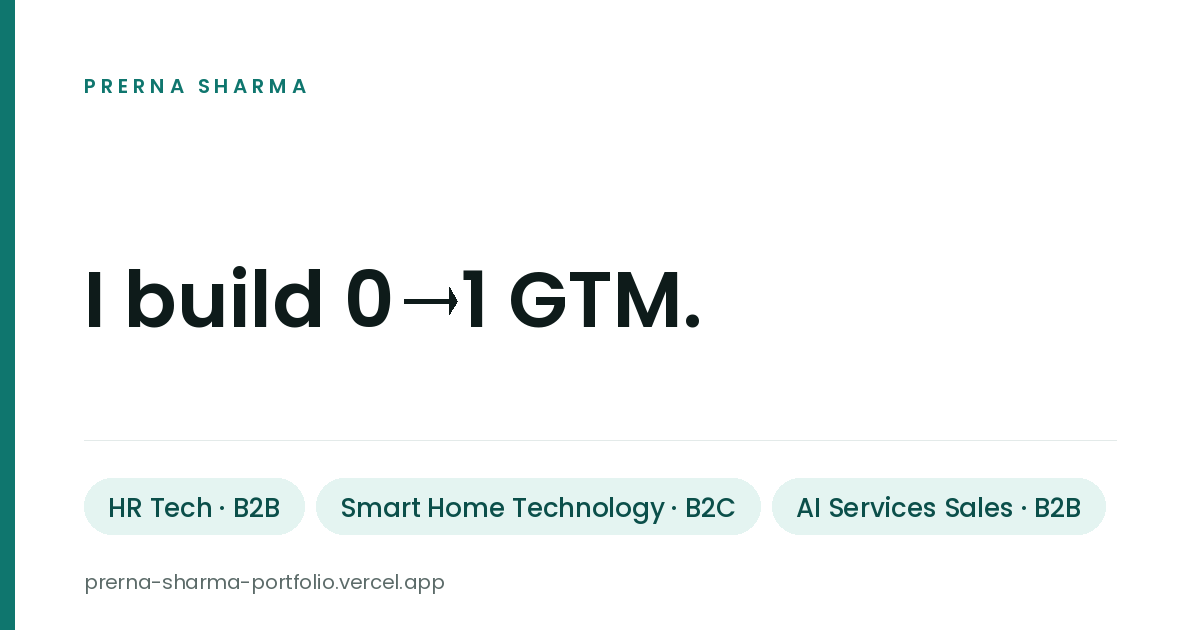
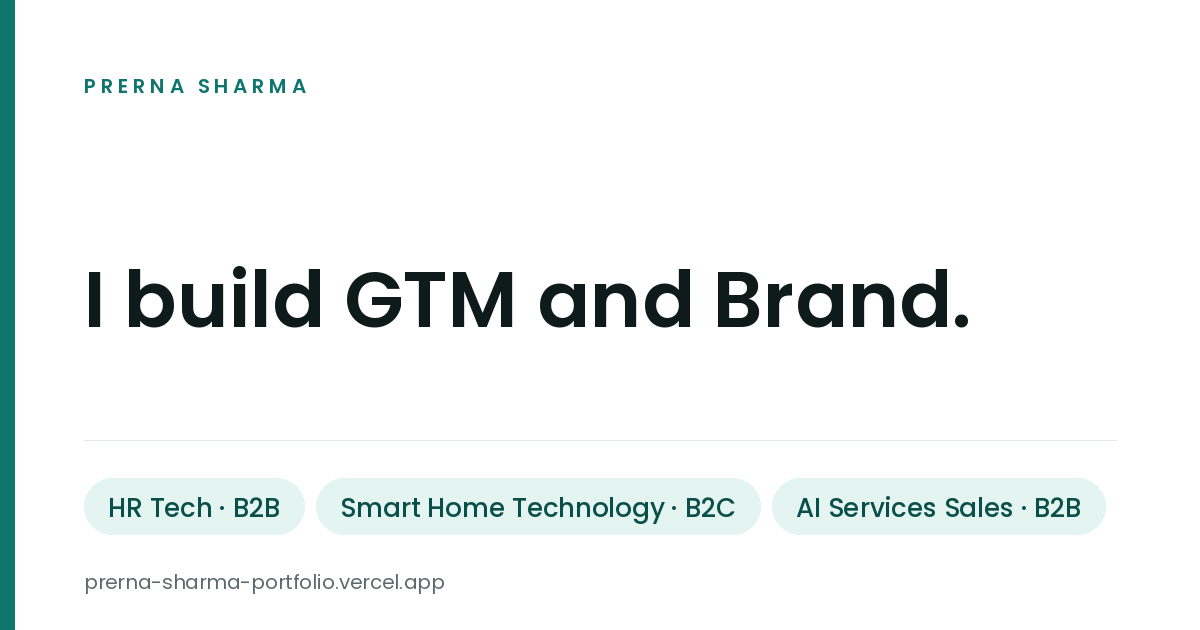
Add files via upload

Changed region(s): [[0.2775, 0.4222, 0.8017, 0.5429]]

diff --git a/index.html b/index.html
@@ -15,12 +15,12 @@
 <meta property="og:image:type" content="image/png">
 <meta property="og:image:width" content="1200">
 <meta property="og:image:height" content="630">
-<meta property="og:image:alt" content="Prerna Sharma. I build 0 to 1 GTM. HR Tech B2B, Smart Home Technology B2C, AI Services Sales B2B.">
+<meta property="og:image:alt" content="Prerna Sharma. I build GTM and Brand. HR Tech B2B, Smart Home Technology B2C, AI Services Sales B2B.">
 
 <!-- X / Twitter -->
 <meta name="twitter:card" content="summary_large_image">
 <meta name="twitter:image" content="https://prerna-sharma-portfolio.vercel.app/og-image.png">
-<meta name="twitter:image:alt" content="Prerna Sharma. I build 0 to 1 GTM. HR Tech B2B, Smart Home Technology B2C, AI Services Sales B2B.">
+<meta name="twitter:image:alt" content="Prerna Sharma. I build GTM and Brand. HR Tech B2B, Smart Home Technology B2C, AI Services Sales B2B.">
 
 <!-- Google Tag Manager -->
 <script>(function(w,d,s,l,i){w[l]=w[l]||[];w[l].push({'gtm.start':
@@ -51,14 +51,14 @@ j=d.createElement(s),dl=l!='dataLayer'?'&l='+l:'';j.async=true;j.src=
 <link rel="preconnect" href="https://fonts.gstatic.com" crossorigin>
 <link href="https://fonts.googleapis.com/css2?family=Poppins:wght@400;500;600&display=swap" rel="stylesheet">
 <link rel="stylesheet" href="/styles.css">
-<title>Prerna Sharma &middot; I build 0&#8594;1 GTM</title>
+<title>Prerna Sharma &middot; I build GTM and Brand</title>
 <meta name="description" content="GTM and growth marketing across HR Tech, smart home technology and AI services sales. Four years building demand generation, brand and pipeline from zero.">
 <link rel="canonical" href="https://prerna-sharma-portfolio.vercel.app/">
 <meta property="og:type" content="website">
 <meta property="og:url" content="https://prerna-sharma-portfolio.vercel.app/">
-<meta property="og:title" content="Prerna Sharma &middot; I build 0&#8594;1 GTM">
+<meta property="og:title" content="Prerna Sharma &middot; I build GTM and Brand">
 <meta property="og:description" content="GTM and growth marketing across HR Tech, smart home technology and AI services sales. Four years building demand generation, brand and pipeline from zero.">
-<meta name="twitter:title" content="Prerna Sharma &middot; I build 0&#8594;1 GTM">
+<meta name="twitter:title" content="Prerna Sharma &middot; I build GTM and Brand">
 <meta name="twitter:description" content="GTM and growth marketing across HR Tech, smart home technology and AI services sales. Four years building demand generation, brand and pipeline from zero.">
 </head>
 <body>
@@ -67,7 +67,7 @@ j=d.createElement(s),dl=l!='dataLayer'?'&l='+l:'';j.async=true;j.src=
 <nav>
   <div class="nav-in">
     <a class="logo" href="index.html">PRERNA<span>.</span>SHARMA</a>
-    <div class="nav-links"><a href="work.html">Work</a><a href="about.html">About</a><a href="case-studies.html">Case studies</a><a href="resume.pdf" target="_blank" rel="noopener">Resume &#8595;</a><a class="nav-cta" href="https://calendly.com/iwbabds" target="_blank" rel="noopener">Book a call</a><a class="nav-wa" href="https://wa.me/917838971472" target="_blank" rel="noopener" aria-label="WhatsApp me" title="WhatsApp me"><svg viewBox="0 0 24 24" aria-hidden="true"><path d="M12.04 2a9.9 9.9 0 00-8.5 14.95L2 22l5.2-1.5A9.9 9.9 0 1012.04 2zm0 1.8a8.1 8.1 0 016.9 12.4l-.25.4.86 3.1-3.2-.84-.38.22a8.1 8.1 0 01-11.9-9.9A8.1 8.1 0 0112.04 3.8zm-3.1 3.6c-.16 0-.42.06-.64.3-.22.24-.85.83-.85 2.02 0 1.2.87 2.35.99 2.5.12.17 1.7 2.7 4.2 3.68 2.08.82 2.5.66 2.95.62.45-.04 1.45-.6 1.66-1.17.2-.58.2-1.07.14-1.18-.06-.1-.22-.16-.46-.28-.24-.12-1.45-.72-1.67-.8-.22-.08-.39-.12-.55.12-.16.24-.63.8-.77.96-.14.16-.28.18-.52.06-.24-.12-1.03-.38-1.96-1.21-.72-.65-1.21-1.45-1.35-1.69-.14-.24-.02-.37.1-.49.11-.11.24-.28.36-.42.12-.14.16-.24.24-.4.08-.16.04-.3-.02-.42-.06-.12-.55-1.33-.75-1.82-.2-.47-.4-.41-.55-.42h-.47z"/></svg></a></div>
+    <div class="nav-links"><a href="work.html">Work</a><a href="about.html">About</a><a href="case-studies.html">Case studies</a><a href="resume.pdf" target="_blank" rel="noopener">Resume &#8595;</a><a class="nav-cta" href="https://wa.me/917838971472" target="_blank" rel="noopener">WhatsApp me</a><a class="nav-cal" href="https://calendly.com/iwbabds" target="_blank" rel="noopener" aria-label="Book a call" title="Book a call"><svg viewBox="0 0 24 24" aria-hidden="true"><rect x="3" y="5" width="18" height="16" rx="2"/><path d="M8 3v4M16 3v4M3 10h18"/></svg></a></div>
   </div>
 </nav>
 
@@ -75,7 +75,7 @@ j=d.createElement(s),dl=l!='dataLayer'?'&l='+l:'';j.async=true;j.src=
   <div class="wrap">
     <div class="lead-grid">
       <div>
-        <h1 class="rv">I build 0&#8594;1 GTM<span style="color:var(--olive)">.</span></h1>
+        <h1 class="rv">I build GTM and Brand<span style="color:var(--olive)">.</span></h1>
         <p class="lead-sub rv"><b>4+ years of go-to-market</b>, across three markets.</p>
         <div class="dom-line rv"><span class="dm-i"><b>HR Tech</b><em>B2B</em></span><span class="dm-i"><b>Smart Home Technology</b><em>B2C</em></span><span class="dm-i"><b>AI Services Sales</b><em>B2B</em></span></div>
         <div class="lead-chips rv">
@@ -247,7 +247,7 @@ j=d.createElement(s),dl=l!='dataLayer'?'&l='+l:'';j.async=true;j.src=
     <h2 class="sec-title rv">Learning is the centre of my life.</h2>
     <div class="at-grid">
       <div class="at-photo rv">
-        <img src="/assets/img-298c70730b.jpg" alt="Prerna Sharma" loading="lazy" onerror="this.style.display='none';this.nextElementSibling.style.display='flex'">
+        <img src="/img-298c70730b.jpg" alt="Prerna Sharma" loading="lazy" onerror="this.style.display='none';this.nextElementSibling.style.display='flex'">
         <div class="ph-fallback" style="display:none">
           <svg viewBox="0 0 24 24"><rect x="3" y="3" width="18" height="18" rx="3"/><circle cx="12" cy="10" r="3"/><path d="M5.5 20a7 7 0 0113 0"/></svg>
           Photo goes here
@@ -269,7 +269,7 @@ j=d.createElement(s),dl=l!='dataLayer'?'&l='+l:'';j.async=true;j.src=
         <div class="eyebrow rv">What next</div>
         <h2 class="rv">I am open to anything that brings a <b>sharp learning curve</b>, in and around <b>GTM, Growth and Sales</b>.</h2>
       </div>
-      <div class="rv lf-cta"><a class="btn-call" href="https://calendly.com/iwbabds" target="_blank" rel="noopener">Book a call</a><a class="btn-wa ico" href="https://wa.me/917838971472" target="_blank" rel="noopener" aria-label="WhatsApp me" title="WhatsApp me"><svg viewBox="0 0 24 24" aria-hidden="true"><path d="M12.04 2a9.9 9.9 0 00-8.5 14.95L2 22l5.2-1.5A9.9 9.9 0 1012.04 2zm0 1.8a8.1 8.1 0 016.9 12.4l-.25.4.86 3.1-3.2-.84-.38.22a8.1 8.1 0 01-11.9-9.9A8.1 8.1 0 0112.04 3.8zm-3.1 3.6c-.16 0-.42.06-.64.3-.22.24-.85.83-.85 2.02 0 1.2.87 2.35.99 2.5.12.17 1.7 2.7 4.2 3.68 2.08.82 2.5.66 2.95.62.45-.04 1.45-.6 1.66-1.17.2-.58.2-1.07.14-1.18-.06-.1-.22-.16-.46-.28-.24-.12-1.45-.72-1.67-.8-.22-.08-.39-.12-.55.12-.16.24-.63.8-.77.96-.14.16-.28.18-.52.06-.24-.12-1.03-.38-1.96-1.21-.72-.65-1.21-1.45-1.35-1.69-.14-.24-.02-.37.1-.49.11-.11.24-.28.36-.42.12-.14.16-.24.24-.4.08-.16.04-.3-.02-.42-.06-.12-.55-1.33-.75-1.82-.2-.47-.4-.41-.55-.42h-.47z"/></svg></a></div>
+      <div class="rv lf-cta"><a class="btn-call" href="https://wa.me/917838971472" target="_blank" rel="noopener">WhatsApp me</a><a class="btn-cal ico" href="https://calendly.com/iwbabds" target="_blank" rel="noopener" aria-label="Book a call" title="Book a call"><svg viewBox="0 0 24 24" aria-hidden="true"><rect x="3" y="5" width="18" height="16" rx="2"/><path d="M8 3v4M16 3v4M3 10h18"/></svg></a></div>
     </div>
   </div>
 </section>

diff --git a/about.html b/about.html
@@ -67,7 +67,7 @@ j=d.createElement(s),dl=l!='dataLayer'?'&l='+l:'';j.async=true;j.src=
 <nav>
   <div class="nav-in">
     <a class="logo" href="index.html">PRERNA<span>.</span>SHARMA</a>
-    <div class="nav-links"><a href="work.html">Work</a><a href="about.html" class="active">About</a><a href="case-studies.html">Case studies</a><a href="resume.pdf" target="_blank" rel="noopener">Resume &#8595;</a><a class="nav-cta" href="https://calendly.com/iwbabds" target="_blank" rel="noopener">Book a call</a><a class="nav-wa" href="https://wa.me/917838971472" target="_blank" rel="noopener" aria-label="WhatsApp me" title="WhatsApp me"><svg viewBox="0 0 24 24" aria-hidden="true"><path d="M12.04 2a9.9 9.9 0 00-8.5 14.95L2 22l5.2-1.5A9.9 9.9 0 1012.04 2zm0 1.8a8.1 8.1 0 016.9 12.4l-.25.4.86 3.1-3.2-.84-.38.22a8.1 8.1 0 01-11.9-9.9A8.1 8.1 0 0112.04 3.8zm-3.1 3.6c-.16 0-.42.06-.64.3-.22.24-.85.83-.85 2.02 0 1.2.87 2.35.99 2.5.12.17 1.7 2.7 4.2 3.68 2.08.82 2.5.66 2.95.62.45-.04 1.45-.6 1.66-1.17.2-.58.2-1.07.14-1.18-.06-.1-.22-.16-.46-.28-.24-.12-1.45-.72-1.67-.8-.22-.08-.39-.12-.55.12-.16.24-.63.8-.77.96-.14.16-.28.18-.52.06-.24-.12-1.03-.38-1.96-1.21-.72-.65-1.21-1.45-1.35-1.69-.14-.24-.02-.37.1-.49.11-.11.24-.28.36-.42.12-.14.16-.24.24-.4.08-.16.04-.3-.02-.42-.06-.12-.55-1.33-.75-1.82-.2-.47-.4-.41-.55-.42h-.47z"/></svg></a></div>
+    <div class="nav-links"><a href="work.html">Work</a><a href="about.html" class="active">About</a><a href="case-studies.html">Case studies</a><a href="resume.pdf" target="_blank" rel="noopener">Resume &#8595;</a><a class="nav-cta" href="https://wa.me/917838971472" target="_blank" rel="noopener">WhatsApp me</a><a class="nav-cal" href="https://calendly.com/iwbabds" target="_blank" rel="noopener" aria-label="Book a call" title="Book a call"><svg viewBox="0 0 24 24" aria-hidden="true"><rect x="3" y="5" width="18" height="16" rx="2"/><path d="M8 3v4M16 3v4M3 10h18"/></svg></a></div>
   </div>
 </nav>
 
@@ -81,7 +81,7 @@ j=d.createElement(s),dl=l!='dataLayer'?'&l='+l:'';j.async=true;j.src=
   <div class="wrap">
     <div class="ab-grid">
       <div class="ab-photo rv">
-        <img src="/assets/img-298c70730b.jpg" alt="Prerna Sharma" loading="lazy" onerror="this.style.display='none';this.nextElementSibling.style.display='flex'">
+        <img src="/img-298c70730b.jpg" alt="Prerna Sharma" loading="lazy" onerror="this.style.display='none';this.nextElementSibling.style.display='flex'">
         <div class="ph-fallback" style="display:none">
           <svg viewBox="0 0 24 24"><rect x="3" y="3" width="18" height="18" rx="3"/><circle cx="12" cy="10" r="3"/><path d="M5.5 20a7 7 0 0113 0"/></svg>
           Photo goes here
@@ -202,10 +202,10 @@ j=d.createElement(s),dl=l!='dataLayer'?'&l='+l:'';j.async=true;j.src=
   <div class="wrap">
     <h2 class="sec-title rv">I like trying new things.</h2>
     <div class="vibe-grid">
-      <figure class="vibe-tile v-surf rv"><img src="/assets/img-422aea587f.jpg" alt="Prerna surfing" loading="lazy"></figure>
-      <figure class="vibe-tile v-kayak rv"><img src="/assets/img-6f2caafee5.jpg" alt="Prerna kayaking through mangroves" loading="lazy"></figure>
-      <figure class="vibe-tile v-coir rv"><img src="/assets/img-1ca84c0bb1.jpg" alt="Prerna learning to spin coir rope" loading="lazy"></figure>
-      <figure class="vibe-tile v-weaving rv"><img src="/assets/img-6016b2d122.jpg" alt="Prerna learning to weave palm fronds" loading="lazy"></figure>
+      <figure class="vibe-tile v-surf rv"><img src="/img-422aea587f.jpg" alt="Prerna surfing" loading="lazy"></figure>
+      <figure class="vibe-tile v-kayak rv"><img src="/img-6f2caafee5.jpg" alt="Prerna kayaking through mangroves" loading="lazy"></figure>
+      <figure class="vibe-tile v-coir rv"><img src="/img-1ca84c0bb1.jpg" alt="Prerna learning to spin coir rope" loading="lazy"></figure>
+      <figure class="vibe-tile v-weaving rv"><img src="/img-6016b2d122.jpg" alt="Prerna learning to weave palm fronds" loading="lazy"></figure>
     </div>
   </div>
 </section>
@@ -217,7 +217,7 @@ j=d.createElement(s),dl=l!='dataLayer'?'&l='+l:'';j.async=true;j.src=
         <div class="eyebrow rv">What next</div>
         <h2 class="rv">I am open to anything that brings a <b>sharp learning curve</b>, in and around <b>GTM, Growth and Sales</b>.</h2>
       </div>
-      <div class="rv lf-cta"><a class="btn-call" href="https://calendly.com/iwbabds" target="_blank" rel="noopener">Book a call</a><a class="btn-wa ico" href="https://wa.me/917838971472" target="_blank" rel="noopener" aria-label="WhatsApp me" title="WhatsApp me"><svg viewBox="0 0 24 24" aria-hidden="true"><path d="M12.04 2a9.9 9.9 0 00-8.5 14.95L2 22l5.2-1.5A9.9 9.9 0 1012.04 2zm0 1.8a8.1 8.1 0 016.9 12.4l-.25.4.86 3.1-3.2-.84-.38.22a8.1 8.1 0 01-11.9-9.9A8.1 8.1 0 0112.04 3.8zm-3.1 3.6c-.16 0-.42.06-.64.3-.22.24-.85.83-.85 2.02 0 1.2.87 2.35.99 2.5.12.17 1.7 2.7 4.2 3.68 2.08.82 2.5.66 2.95.62.45-.04 1.45-.6 1.66-1.17.2-.58.2-1.07.14-1.18-.06-.1-.22-.16-.46-.28-.24-.12-1.45-.72-1.67-.8-.22-.08-.39-.12-.55.12-.16.24-.63.8-.77.96-.14.16-.28.18-.52.06-.24-.12-1.03-.38-1.96-1.21-.72-.65-1.21-1.45-1.35-1.69-.14-.24-.02-.37.1-.49.11-.11.24-.28.36-.42.12-.14.16-.24.24-.4.08-.16.04-.3-.02-.42-.06-.12-.55-1.33-.75-1.82-.2-.47-.4-.41-.55-.42h-.47z"/></svg></a></div>
+      <div class="rv lf-cta"><a class="btn-call" href="https://wa.me/917838971472" target="_blank" rel="noopener">WhatsApp me</a><a class="btn-cal ico" href="https://calendly.com/iwbabds" target="_blank" rel="noopener" aria-label="Book a call" title="Book a call"><svg viewBox="0 0 24 24" aria-hidden="true"><rect x="3" y="5" width="18" height="16" rx="2"/><path d="M8 3v4M16 3v4M3 10h18"/></svg></a></div>
     </div>
   </div>
 </section>

diff --git a/case-studies.html b/case-studies.html
@@ -67,7 +67,7 @@ j=d.createElement(s),dl=l!='dataLayer'?'&l='+l:'';j.async=true;j.src=
 <nav>
   <div class="nav-in">
     <a class="logo" href="index.html">PRERNA<span>.</span>SHARMA</a>
-    <div class="nav-links"><a href="work.html">Work</a><a href="about.html">About</a><a href="case-studies.html" class="active">Case studies</a><a href="resume.pdf" target="_blank" rel="noopener">Resume &#8595;</a><a class="nav-cta" href="https://calendly.com/iwbabds" target="_blank" rel="noopener">Book a call</a><a class="nav-wa" href="https://wa.me/917838971472" target="_blank" rel="noopener" aria-label="WhatsApp me" title="WhatsApp me"><svg viewBox="0 0 24 24" aria-hidden="true"><path d="M12.04 2a9.9 9.9 0 00-8.5 14.95L2 22l5.2-1.5A9.9 9.9 0 1012.04 2zm0 1.8a8.1 8.1 0 016.9 12.4l-.25.4.86 3.1-3.2-.84-.38.22a8.1 8.1 0 01-11.9-9.9A8.1 8.1 0 0112.04 3.8zm-3.1 3.6c-.16 0-.42.06-.64.3-.22.24-.85.83-.85 2.02 0 1.2.87 2.35.99 2.5.12.17 1.7 2.7 4.2 3.68 2.08.82 2.5.66 2.95.62.45-.04 1.45-.6 1.66-1.17.2-.58.2-1.07.14-1.18-.06-.1-.22-.16-.46-.28-.24-.12-1.45-.72-1.67-.8-.22-.08-.39-.12-.55.12-.16.24-.63.8-.77.96-.14.16-.28.18-.52.06-.24-.12-1.03-.38-1.96-1.21-.72-.65-1.21-1.45-1.35-1.69-.14-.24-.02-.37.1-.49.11-.11.24-.28.36-.42.12-.14.16-.24.24-.4.08-.16.04-.3-.02-.42-.06-.12-.55-1.33-.75-1.82-.2-.47-.4-.41-.55-.42h-.47z"/></svg></a></div>
+    <div class="nav-links"><a href="work.html">Work</a><a href="about.html">About</a><a href="case-studies.html" class="active">Case studies</a><a href="resume.pdf" target="_blank" rel="noopener">Resume &#8595;</a><a class="nav-cta" href="https://wa.me/917838971472" target="_blank" rel="noopener">WhatsApp me</a><a class="nav-cal" href="https://calendly.com/iwbabds" target="_blank" rel="noopener" aria-label="Book a call" title="Book a call"><svg viewBox="0 0 24 24" aria-hidden="true"><rect x="3" y="5" width="18" height="16" rx="2"/><path d="M8 3v4M16 3v4M3 10h18"/></svg></a></div>
   </div>
 </nav>
 
@@ -120,7 +120,7 @@ j=d.createElement(s),dl=l!='dataLayer'?'&l='+l:'';j.async=true;j.src=
         <div class="eyebrow rv">What next</div>
         <h2 class="rv">I am open to anything that brings a <b>sharp learning curve</b>, in and around <b>GTM, Growth and Sales</b>.</h2>
       </div>
-      <div class="rv lf-cta"><a class="btn-call" href="https://calendly.com/iwbabds" target="_blank" rel="noopener">Book a call</a><a class="btn-wa ico" href="https://wa.me/917838971472" target="_blank" rel="noopener" aria-label="WhatsApp me" title="WhatsApp me"><svg viewBox="0 0 24 24" aria-hidden="true"><path d="M12.04 2a9.9 9.9 0 00-8.5 14.95L2 22l5.2-1.5A9.9 9.9 0 1012.04 2zm0 1.8a8.1 8.1 0 016.9 12.4l-.25.4.86 3.1-3.2-.84-.38.22a8.1 8.1 0 01-11.9-9.9A8.1 8.1 0 0112.04 3.8zm-3.1 3.6c-.16 0-.42.06-.64.3-.22.24-.85.83-.85 2.02 0 1.2.87 2.35.99 2.5.12.17 1.7 2.7 4.2 3.68 2.08.82 2.5.66 2.95.62.45-.04 1.45-.6 1.66-1.17.2-.58.2-1.07.14-1.18-.06-.1-.22-.16-.46-.28-.24-.12-1.45-.72-1.67-.8-.22-.08-.39-.12-.55.12-.16.24-.63.8-.77.96-.14.16-.28.18-.52.06-.24-.12-1.03-.38-1.96-1.21-.72-.65-1.21-1.45-1.35-1.69-.14-.24-.02-.37.1-.49.11-.11.24-.28.36-.42.12-.14.16-.24.24-.4.08-.16.04-.3-.02-.42-.06-.12-.55-1.33-.75-1.82-.2-.47-.4-.41-.55-.42h-.47z"/></svg></a></div>
+      <div class="rv lf-cta"><a class="btn-call" href="https://wa.me/917838971472" target="_blank" rel="noopener">WhatsApp me</a><a class="btn-cal ico" href="https://calendly.com/iwbabds" target="_blank" rel="noopener" aria-label="Book a call" title="Book a call"><svg viewBox="0 0 24 24" aria-hidden="true"><rect x="3" y="5" width="18" height="16" rx="2"/><path d="M8 3v4M16 3v4M3 10h18"/></svg></a></div>
     </div>
   </div>
 </section>

diff --git a/clay-case-study.html b/clay-case-study.html
@@ -67,7 +67,7 @@ j=d.createElement(s),dl=l!='dataLayer'?'&l='+l:'';j.async=true;j.src=
 <nav>
   <div class="nav-in">
     <a class="logo" href="index.html">PRERNA<span>.</span>SHARMA</a>
-    <div class="nav-links"><a href="work.html">Work</a><a href="about.html">About</a><a href="case-studies.html" class="active">Case studies</a><a href="resume.pdf" target="_blank" rel="noopener">Resume &#8595;</a><a class="nav-cta" href="https://calendly.com/iwbabds" target="_blank" rel="noopener">Book a call</a><a class="nav-wa" href="https://wa.me/917838971472" target="_blank" rel="noopener" aria-label="WhatsApp me" title="WhatsApp me"><svg viewBox="0 0 24 24" aria-hidden="true"><path d="M12.04 2a9.9 9.9 0 00-8.5 14.95L2 22l5.2-1.5A9.9 9.9 0 1012.04 2zm0 1.8a8.1 8.1 0 016.9 12.4l-.25.4.86 3.1-3.2-.84-.38.22a8.1 8.1 0 01-11.9-9.9A8.1 8.1 0 0112.04 3.8zm-3.1 3.6c-.16 0-.42.06-.64.3-.22.24-.85.83-.85 2.02 0 1.2.87 2.35.99 2.5.12.17 1.7 2.7 4.2 3.68 2.08.82 2.5.66 2.95.62.45-.04 1.45-.6 1.66-1.17.2-.58.2-1.07.14-1.18-.06-.1-.22-.16-.46-.28-.24-.12-1.45-.72-1.67-.8-.22-.08-.39-.12-.55.12-.16.24-.63.8-.77.96-.14.16-.28.18-.52.06-.24-.12-1.03-.38-1.96-1.21-.72-.65-1.21-1.45-1.35-1.69-.14-.24-.02-.37.1-.49.11-.11.24-.28.36-.42.12-.14.16-.24.24-.4.08-.16.04-.3-.02-.42-.06-.12-.55-1.33-.75-1.82-.2-.47-.4-.41-.55-.42h-.47z"/></svg></a></div>
+    <div class="nav-links"><a href="work.html">Work</a><a href="about.html">About</a><a href="case-studies.html" class="active">Case studies</a><a href="resume.pdf" target="_blank" rel="noopener">Resume &#8595;</a><a class="nav-cta" href="https://wa.me/917838971472" target="_blank" rel="noopener">WhatsApp me</a><a class="nav-cal" href="https://calendly.com/iwbabds" target="_blank" rel="noopener" aria-label="Book a call" title="Book a call"><svg viewBox="0 0 24 24" aria-hidden="true"><rect x="3" y="5" width="18" height="16" rx="2"/><path d="M8 3v4M16 3v4M3 10h18"/></svg></a></div>
   </div>
 </nav>
 
@@ -404,7 +404,7 @@ j=d.createElement(s),dl=l!='dataLayer'?'&l='+l:'';j.async=true;j.src=
         <div class="eyebrow rv">What next</div>
         <h2 class="rv">I am open to anything that brings a <b>sharp learning curve</b>, in and around <b>GTM, Growth and Sales</b>.</h2>
       </div>
-      <div class="rv lf-cta"><a class="btn-call" href="https://calendly.com/iwbabds" target="_blank" rel="noopener">Book a call</a><a class="btn-wa ico" href="https://wa.me/917838971472" target="_blank" rel="noopener" aria-label="WhatsApp me" title="WhatsApp me"><svg viewBox="0 0 24 24" aria-hidden="true"><path d="M12.04 2a9.9 9.9 0 00-8.5 14.95L2 22l5.2-1.5A9.9 9.9 0 1012.04 2zm0 1.8a8.1 8.1 0 016.9 12.4l-.25.4.86 3.1-3.2-.84-.38.22a8.1 8.1 0 01-11.9-9.9A8.1 8.1 0 0112.04 3.8zm-3.1 3.6c-.16 0-.42.06-.64.3-.22.24-.85.83-.85 2.02 0 1.2.87 2.35.99 2.5.12.17 1.7 2.7 4.2 3.68 2.08.82 2.5.66 2.95.62.45-.04 1.45-.6 1.66-1.17.2-.58.2-1.07.14-1.18-.06-.1-.22-.16-.46-.28-.24-.12-1.45-.72-1.67-.8-.22-.08-.39-.12-.55.12-.16.24-.63.8-.77.96-.14.16-.28.18-.52.06-.24-.12-1.03-.38-1.96-1.21-.72-.65-1.21-1.45-1.35-1.69-.14-.24-.02-.37.1-.49.11-.11.24-.28.36-.42.12-.14.16-.24.24-.4.08-.16.04-.3-.02-.42-.06-.12-.55-1.33-.75-1.82-.2-.47-.4-.41-.55-.42h-.47z"/></svg></a></div>
+      <div class="rv lf-cta"><a class="btn-call" href="https://wa.me/917838971472" target="_blank" rel="noopener">WhatsApp me</a><a class="btn-cal ico" href="https://calendly.com/iwbabds" target="_blank" rel="noopener" aria-label="Book a call" title="Book a call"><svg viewBox="0 0 24 24" aria-hidden="true"><rect x="3" y="5" width="18" height="16" rx="2"/><path d="M8 3v4M16 3v4M3 10h18"/></svg></a></div>
     </div>
   </div>
 </section>

diff --git a/doo-case-study.html b/doo-case-study.html
@@ -67,7 +67,7 @@ j=d.createElement(s),dl=l!='dataLayer'?'&l='+l:'';j.async=true;j.src=
 <nav>
   <div class="nav-in">
     <a class="logo" href="index.html">PRERNA<span>.</span>SHARMA</a>
-    <div class="nav-links"><a href="work.html">Work</a><a href="about.html">About</a><a href="case-studies.html" class="active">Case studies</a><a href="resume.pdf" target="_blank" rel="noopener">Resume &#8595;</a><a class="nav-cta" href="https://calendly.com/iwbabds" target="_blank" rel="noopener">Book a call</a><a class="nav-wa" href="https://wa.me/917838971472" target="_blank" rel="noopener" aria-label="WhatsApp me" title="WhatsApp me"><svg viewBox="0 0 24 24" aria-hidden="true"><path d="M12.04 2a9.9 9.9 0 00-8.5 14.95L2 22l5.2-1.5A9.9 9.9 0 1012.04 2zm0 1.8a8.1 8.1 0 016.9 12.4l-.25.4.86 3.1-3.2-.84-.38.22a8.1 8.1 0 01-11.9-9.9A8.1 8.1 0 0112.04 3.8zm-3.1 3.6c-.16 0-.42.06-.64.3-.22.24-.85.83-.85 2.02 0 1.2.87 2.35.99 2.5.12.17 1.7 2.7 4.2 3.68 2.08.82 2.5.66 2.95.62.45-.04 1.45-.6 1.66-1.17.2-.58.2-1.07.14-1.18-.06-.1-.22-.16-.46-.28-.24-.12-1.45-.72-1.67-.8-.22-.08-.39-.12-.55.12-.16.24-.63.8-.77.96-.14.16-.28.18-.52.06-.24-.12-1.03-.38-1.96-1.21-.72-.65-1.21-1.45-1.35-1.69-.14-.24-.02-.37.1-.49.11-.11.24-.28.36-.42.12-.14.16-.24.24-.4.08-.16.04-.3-.02-.42-.06-.12-.55-1.33-.75-1.82-.2-.47-.4-.41-.55-.42h-.47z"/></svg></a></div>
+    <div class="nav-links"><a href="work.html">Work</a><a href="about.html">About</a><a href="case-studies.html" class="active">Case studies</a><a href="resume.pdf" target="_blank" rel="noopener">Resume &#8595;</a><a class="nav-cta" href="https://wa.me/917838971472" target="_blank" rel="noopener">WhatsApp me</a><a class="nav-cal" href="https://calendly.com/iwbabds" target="_blank" rel="noopener" aria-label="Book a call" title="Book a call"><svg viewBox="0 0 24 24" aria-hidden="true"><rect x="3" y="5" width="18" height="16" rx="2"/><path d="M8 3v4M16 3v4M3 10h18"/></svg></a></div>
   </div>
 </nav>
 
@@ -278,7 +278,7 @@ j=d.createElement(s),dl=l!='dataLayer'?'&l='+l:'';j.async=true;j.src=
         <div class="eyebrow rv">What next</div>
         <h2 class="rv">I am open to anything that brings a <b>sharp learning curve</b>, in and around <b>GTM, Growth and Sales</b>.</h2>
       </div>
-      <div class="rv lf-cta"><a class="btn-call" href="https://calendly.com/iwbabds" target="_blank" rel="noopener">Book a call</a><a class="btn-wa ico" href="https://wa.me/917838971472" target="_blank" rel="noopener" aria-label="WhatsApp me" title="WhatsApp me"><svg viewBox="0 0 24 24" aria-hidden="true"><path d="M12.04 2a9.9 9.9 0 00-8.5 14.95L2 22l5.2-1.5A9.9 9.9 0 1012.04 2zm0 1.8a8.1 8.1 0 016.9 12.4l-.25.4.86 3.1-3.2-.84-.38.22a8.1 8.1 0 01-11.9-9.9A8.1 8.1 0 0112.04 3.8zm-3.1 3.6c-.16 0-.42.06-.64.3-.22.24-.85.83-.85 2.02 0 1.2.87 2.35.99 2.5.12.17 1.7 2.7 4.2 3.68 2.08.82 2.5.66 2.95.62.45-.04 1.45-.6 1.66-1.17.2-.58.2-1.07.14-1.18-.06-.1-.22-.16-.46-.28-.24-.12-1.45-.72-1.67-.8-.22-.08-.39-.12-.55.12-.16.24-.63.8-.77.96-.14.16-.28.18-.52.06-.24-.12-1.03-.38-1.96-1.21-.72-.65-1.21-1.45-1.35-1.69-.14-.24-.02-.37.1-.49.11-.11.24-.28.36-.42.12-.14.16-.24.24-.4.08-.16.04-.3-.02-.42-.06-.12-.55-1.33-.75-1.82-.2-.47-.4-.41-.55-.42h-.47z"/></svg></a></div>
+      <div class="rv lf-cta"><a class="btn-call" href="https://wa.me/917838971472" target="_blank" rel="noopener">WhatsApp me</a><a class="btn-cal ico" href="https://calendly.com/iwbabds" target="_blank" rel="noopener" aria-label="Book a call" title="Book a call"><svg viewBox="0 0 24 24" aria-hidden="true"><rect x="3" y="5" width="18" height="16" rx="2"/><path d="M8 3v4M16 3v4M3 10h18"/></svg></a></div>
     </div>
   </div>
 </section>

diff --git a/job-search-system.html b/job-search-system.html
@@ -67,7 +67,7 @@ j=d.createElement(s),dl=l!='dataLayer'?'&l='+l:'';j.async=true;j.src=
 <nav>
   <div class="nav-in">
     <a class="logo" href="index.html">PRERNA<span>.</span>SHARMA</a>
-    <div class="nav-links"><a href="work.html">Work</a><a href="about.html">About</a><a href="case-studies.html" class="active">Case studies</a><a href="resume.pdf" target="_blank" rel="noopener">Resume &#8595;</a><a class="nav-cta" href="https://calendly.com/iwbabds" target="_blank" rel="noopener">Book a call</a><a class="nav-wa" href="https://wa.me/917838971472" target="_blank" rel="noopener" aria-label="WhatsApp me" title="WhatsApp me"><svg viewBox="0 0 24 24" aria-hidden="true"><path d="M12.04 2a9.9 9.9 0 00-8.5 14.95L2 22l5.2-1.5A9.9 9.9 0 1012.04 2zm0 1.8a8.1 8.1 0 016.9 12.4l-.25.4.86 3.1-3.2-.84-.38.22a8.1 8.1 0 01-11.9-9.9A8.1 8.1 0 0112.04 3.8zm-3.1 3.6c-.16 0-.42.06-.64.3-.22.24-.85.83-.85 2.02 0 1.2.87 2.35.99 2.5.12.17 1.7 2.7 4.2 3.68 2.08.82 2.5.66 2.95.62.45-.04 1.45-.6 1.66-1.17.2-.58.2-1.07.14-1.18-.06-.1-.22-.16-.46-.28-.24-.12-1.45-.72-1.67-.8-.22-.08-.39-.12-.55.12-.16.24-.63.8-.77.96-.14.16-.28.18-.52.06-.24-.12-1.03-.38-1.96-1.21-.72-.65-1.21-1.45-1.35-1.69-.14-.24-.02-.37.1-.49.11-.11.24-.28.36-.42.12-.14.16-.24.24-.4.08-.16.04-.3-.02-.42-.06-.12-.55-1.33-.75-1.82-.2-.47-.4-.41-.55-.42h-.47z"/></svg></a></div>
+    <div class="nav-links"><a href="work.html">Work</a><a href="about.html">About</a><a href="case-studies.html" class="active">Case studies</a><a href="resume.pdf" target="_blank" rel="noopener">Resume &#8595;</a><a class="nav-cta" href="https://wa.me/917838971472" target="_blank" rel="noopener">WhatsApp me</a><a class="nav-cal" href="https://calendly.com/iwbabds" target="_blank" rel="noopener" aria-label="Book a call" title="Book a call"><svg viewBox="0 0 24 24" aria-hidden="true"><rect x="3" y="5" width="18" height="16" rx="2"/><path d="M8 3v4M16 3v4M3 10h18"/></svg></a></div>
   </div>
 </nav>
 
@@ -350,7 +350,7 @@ j=d.createElement(s),dl=l!='dataLayer'?'&l='+l:'';j.async=true;j.src=
         <div class="eyebrow rv">What next</div>
         <h2 class="rv">I am open to anything that brings a <b>sharp learning curve</b>, in and around <b>GTM, Growth and Sales</b>.</h2>
       </div>
-      <div class="rv lf-cta"><a class="btn-call" href="https://calendly.com/iwbabds" target="_blank" rel="noopener">Book a call</a><a class="btn-wa ico" href="https://wa.me/917838971472" target="_blank" rel="noopener" aria-label="WhatsApp me" title="WhatsApp me"><svg viewBox="0 0 24 24" aria-hidden="true"><path d="M12.04 2a9.9 9.9 0 00-8.5 14.95L2 22l5.2-1.5A9.9 9.9 0 1012.04 2zm0 1.8a8.1 8.1 0 016.9 12.4l-.25.4.86 3.1-3.2-.84-.38.22a8.1 8.1 0 01-11.9-9.9A8.1 8.1 0 0112.04 3.8zm-3.1 3.6c-.16 0-.42.06-.64.3-.22.24-.85.83-.85 2.02 0 1.2.87 2.35.99 2.5.12.17 1.7 2.7 4.2 3.68 2.08.82 2.5.66 2.95.62.45-.04 1.45-.6 1.66-1.17.2-.58.2-1.07.14-1.18-.06-.1-.22-.16-.46-.28-.24-.12-1.45-.72-1.67-.8-.22-.08-.39-.12-.55.12-.16.24-.63.8-.77.96-.14.16-.28.18-.52.06-.24-.12-1.03-.38-1.96-1.21-.72-.65-1.21-1.45-1.35-1.69-.14-.24-.02-.37.1-.49.11-.11.24-.28.36-.42.12-.14.16-.24.24-.4.08-.16.04-.3-.02-.42-.06-.12-.55-1.33-.75-1.82-.2-.47-.4-.41-.55-.42h-.47z"/></svg></a></div>
+      <div class="rv lf-cta"><a class="btn-call" href="https://wa.me/917838971472" target="_blank" rel="noopener">WhatsApp me</a><a class="btn-cal ico" href="https://calendly.com/iwbabds" target="_blank" rel="noopener" aria-label="Book a call" title="Book a call"><svg viewBox="0 0 24 24" aria-hidden="true"><rect x="3" y="5" width="18" height="16" rx="2"/><path d="M8 3v4M16 3v4M3 10h18"/></svg></a></div>
     </div>
   </div>
 </section>

diff --git a/reo-case-study.html b/reo-case-study.html
@@ -67,7 +67,7 @@ j=d.createElement(s),dl=l!='dataLayer'?'&l='+l:'';j.async=true;j.src=
 <nav>
   <div class="nav-in">
     <a class="logo" href="index.html">PRERNA<span>.</span>SHARMA</a>
-    <div class="nav-links"><a href="work.html">Work</a><a href="about.html">About</a><a href="case-studies.html" class="active">Case studies</a><a href="resume.pdf" target="_blank" rel="noopener">Resume &#8595;</a><a class="nav-cta" href="https://calendly.com/iwbabds" target="_blank" rel="noopener">Book a call</a><a class="nav-wa" href="https://wa.me/917838971472" target="_blank" rel="noopener" aria-label="WhatsApp me" title="WhatsApp me"><svg viewBox="0 0 24 24" aria-hidden="true"><path d="M12.04 2a9.9 9.9 0 00-8.5 14.95L2 22l5.2-1.5A9.9 9.9 0 1012.04 2zm0 1.8a8.1 8.1 0 016.9 12.4l-.25.4.86 3.1-3.2-.84-.38.22a8.1 8.1 0 01-11.9-9.9A8.1 8.1 0 0112.04 3.8zm-3.1 3.6c-.16 0-.42.06-.64.3-.22.24-.85.83-.85 2.02 0 1.2.87 2.35.99 2.5.12.17 1.7 2.7 4.2 3.68 2.08.82 2.5.66 2.95.62.45-.04 1.45-.6 1.66-1.17.2-.58.2-1.07.14-1.18-.06-.1-.22-.16-.46-.28-.24-.12-1.45-.72-1.67-.8-.22-.08-.39-.12-.55.12-.16.24-.63.8-.77.96-.14.16-.28.18-.52.06-.24-.12-1.03-.38-1.96-1.21-.72-.65-1.21-1.45-1.35-1.69-.14-.24-.02-.37.1-.49.11-.11.24-.28.36-.42.12-.14.16-.24.24-.4.08-.16.04-.3-.02-.42-.06-.12-.55-1.33-.75-1.82-.2-.47-.4-.41-.55-.42h-.47z"/></svg></a></div>
+    <div class="nav-links"><a href="work.html">Work</a><a href="about.html">About</a><a href="case-studies.html" class="active">Case studies</a><a href="resume.pdf" target="_blank" rel="noopener">Resume &#8595;</a><a class="nav-cta" href="https://wa.me/917838971472" target="_blank" rel="noopener">WhatsApp me</a><a class="nav-cal" href="https://calendly.com/iwbabds" target="_blank" rel="noopener" aria-label="Book a call" title="Book a call"><svg viewBox="0 0 24 24" aria-hidden="true"><rect x="3" y="5" width="18" height="16" rx="2"/><path d="M8 3v4M16 3v4M3 10h18"/></svg></a></div>
   </div>
 </nav>
 
@@ -338,7 +338,7 @@ j=d.createElement(s),dl=l!='dataLayer'?'&l='+l:'';j.async=true;j.src=
         <div class="eyebrow rv">What next</div>
         <h2 class="rv">I am open to anything that brings a <b>sharp learning curve</b>, in and around <b>GTM, Growth and Sales</b>.</h2>
       </div>
-      <div class="rv lf-cta"><a class="btn-call" href="https://calendly.com/iwbabds" target="_blank" rel="noopener">Book a call</a><a class="btn-wa ico" href="https://wa.me/917838971472" target="_blank" rel="noopener" aria-label="WhatsApp me" title="WhatsApp me"><svg viewBox="0 0 24 24" aria-hidden="true"><path d="M12.04 2a9.9 9.9 0 00-8.5 14.95L2 22l5.2-1.5A9.9 9.9 0 1012.04 2zm0 1.8a8.1 8.1 0 016.9 12.4l-.25.4.86 3.1-3.2-.84-.38.22a8.1 8.1 0 01-11.9-9.9A8.1 8.1 0 0112.04 3.8zm-3.1 3.6c-.16 0-.42.06-.64.3-.22.24-.85.83-.85 2.02 0 1.2.87 2.35.99 2.5.12.17 1.7 2.7 4.2 3.68 2.08.82 2.5.66 2.95.62.45-.04 1.45-.6 1.66-1.17.2-.58.2-1.07.14-1.18-.06-.1-.22-.16-.46-.28-.24-.12-1.45-.72-1.67-.8-.22-.08-.39-.12-.55.12-.16.24-.63.8-.77.96-.14.16-.28.18-.52.06-.24-.12-1.03-.38-1.96-1.21-.72-.65-1.21-1.45-1.35-1.69-.14-.24-.02-.37.1-.49.11-.11.24-.28.36-.42.12-.14.16-.24.24-.4.08-.16.04-.3-.02-.42-.06-.12-.55-1.33-.75-1.82-.2-.47-.4-.41-.55-.42h-.47z"/></svg></a></div>
+      <div class="rv lf-cta"><a class="btn-call" href="https://wa.me/917838971472" target="_blank" rel="noopener">WhatsApp me</a><a class="btn-cal ico" href="https://calendly.com/iwbabds" target="_blank" rel="noopener" aria-label="Book a call" title="Book a call"><svg viewBox="0 0 24 24" aria-hidden="true"><rect x="3" y="5" width="18" height="16" rx="2"/><path d="M8 3v4M16 3v4M3 10h18"/></svg></a></div>
     </div>
   </div>
 </section>

diff --git a/work.html b/work.html
@@ -67,7 +67,7 @@ j=d.createElement(s),dl=l!='dataLayer'?'&l='+l:'';j.async=true;j.src=
 <nav>
   <div class="nav-in">
     <a class="logo" href="index.html">PRERNA<span>.</span>SHARMA</a>
-    <div class="nav-links"><a href="work.html" class="active">Work</a><a href="about.html">About</a><a href="case-studies.html">Case studies</a><a href="resume.pdf" target="_blank" rel="noopener">Resume &#8595;</a><a class="nav-cta" href="https://calendly.com/iwbabds" target="_blank" rel="noopener">Book a call</a><a class="nav-wa" href="https://wa.me/917838971472" target="_blank" rel="noopener" aria-label="WhatsApp me" title="WhatsApp me"><svg viewBox="0 0 24 24" aria-hidden="true"><path d="M12.04 2a9.9 9.9 0 00-8.5 14.95L2 22l5.2-1.5A9.9 9.9 0 1012.04 2zm0 1.8a8.1 8.1 0 016.9 12.4l-.25.4.86 3.1-3.2-.84-.38.22a8.1 8.1 0 01-11.9-9.9A8.1 8.1 0 0112.04 3.8zm-3.1 3.6c-.16 0-.42.06-.64.3-.22.24-.85.83-.85 2.02 0 1.2.87 2.35.99 2.5.12.17 1.7 2.7 4.2 3.68 2.08.82 2.5.66 2.95.62.45-.04 1.45-.6 1.66-1.17.2-.58.2-1.07.14-1.18-.06-.1-.22-.16-.46-.28-.24-.12-1.45-.72-1.67-.8-.22-.08-.39-.12-.55.12-.16.24-.63.8-.77.96-.14.16-.28.18-.52.06-.24-.12-1.03-.38-1.96-1.21-.72-.65-1.21-1.45-1.35-1.69-.14-.24-.02-.37.1-.49.11-.11.24-.28.36-.42.12-.14.16-.24.24-.4.08-.16.04-.3-.02-.42-.06-.12-.55-1.33-.75-1.82-.2-.47-.4-.41-.55-.42h-.47z"/></svg></a></div>
+    <div class="nav-links"><a href="work.html" class="active">Work</a><a href="about.html">About</a><a href="case-studies.html">Case studies</a><a href="resume.pdf" target="_blank" rel="noopener">Resume &#8595;</a><a class="nav-cta" href="https://wa.me/917838971472" target="_blank" rel="noopener">WhatsApp me</a><a class="nav-cal" href="https://calendly.com/iwbabds" target="_blank" rel="noopener" aria-label="Book a call" title="Book a call"><svg viewBox="0 0 24 24" aria-hidden="true"><rect x="3" y="5" width="18" height="16" rx="2"/><path d="M8 3v4M16 3v4M3 10h18"/></svg></a></div>
   </div>
 </nav>
 
@@ -240,7 +240,7 @@ j=d.createElement(s),dl=l!='dataLayer'?'&l='+l:'';j.async=true;j.src=
         <div class="eyebrow rv">What next</div>
         <h2 class="rv">I am open to anything that brings a <b>sharp learning curve</b>, in and around <b>GTM, Growth and Sales</b>.</h2>
       </div>
-      <div class="rv lf-cta"><a class="btn-call" href="https://calendly.com/iwbabds" target="_blank" rel="noopener">Book a call</a><a class="btn-wa ico" href="https://wa.me/917838971472" target="_blank" rel="noopener" aria-label="WhatsApp me" title="WhatsApp me"><svg viewBox="0 0 24 24" aria-hidden="true"><path d="M12.04 2a9.9 9.9 0 00-8.5 14.95L2 22l5.2-1.5A9.9 9.9 0 1012.04 2zm0 1.8a8.1 8.1 0 016.9 12.4l-.25.4.86 3.1-3.2-.84-.38.22a8.1 8.1 0 01-11.9-9.9A8.1 8.1 0 0112.04 3.8zm-3.1 3.6c-.16 0-.42.06-.64.3-.22.24-.85.83-.85 2.02 0 1.2.87 2.35.99 2.5.12.17 1.7 2.7 4.2 3.68 2.08.82 2.5.66 2.95.62.45-.04 1.45-.6 1.66-1.17.2-.58.2-1.07.14-1.18-.06-.1-.22-.16-.46-.28-.24-.12-1.45-.72-1.67-.8-.22-.08-.39-.12-.55.12-.16.24-.63.8-.77.96-.14.16-.28.18-.52.06-.24-.12-1.03-.38-1.96-1.21-.72-.65-1.21-1.45-1.35-1.69-.14-.24-.02-.37.1-.49.11-.11.24-.28.36-.42.12-.14.16-.24.24-.4.08-.16.04-.3-.02-.42-.06-.12-.55-1.33-.75-1.82-.2-.47-.4-.41-.55-.42h-.47z"/></svg></a></div>
+      <div class="rv lf-cta"><a class="btn-call" href="https://wa.me/917838971472" target="_blank" rel="noopener">WhatsApp me</a><a class="btn-cal ico" href="https://calendly.com/iwbabds" target="_blank" rel="noopener" aria-label="Book a call" title="Book a call"><svg viewBox="0 0 24 24" aria-hidden="true"><rect x="3" y="5" width="18" height="16" rx="2"/><path d="M8 3v4M16 3v4M3 10h18"/></svg></a></div>
     </div>
   </div>
 </section>

diff --git a/styles.css b/styles.css
@@ -1290,3 +1290,10 @@ a.td-card:hover .td-go{gap:13px}
 .cs-idx-grid .td-scope span{display:block;line-height:1.5}
 .cs-idx-grid .td-card .td-go{margin-top:auto;padding-top:22px}
 @media(max-width:700px){.cs-idx-grid .td-card h3{min-height:0}}
+
+.nav-cal{display:inline-flex;align-items:center;justify-content:center;width:34px;height:34px;border-radius:50%;border:1px solid var(--line);color:var(--olive-deep);transition:background .2s,border-color .2s}
+.nav-cal:hover{background:var(--olive-soft);border-color:var(--clay-soft)}
+.nav-cal svg{width:16px;height:16px;fill:none;stroke:currentColor;stroke-width:1.9;stroke-linecap:round;stroke-linejoin:round}
+.btn-cal.ico{width:46px;height:46px;padding:0;border-radius:50%;display:inline-flex;align-items:center;justify-content:center;background:var(--olive-soft);color:var(--olive-deep)}
+.btn-cal.ico:hover{background:var(--clay-soft)}
+.btn-cal.ico svg{width:20px;height:20px;fill:none;stroke:currentColor;stroke-width:1.9;stroke-linecap:round;stroke-linejoin:round}
